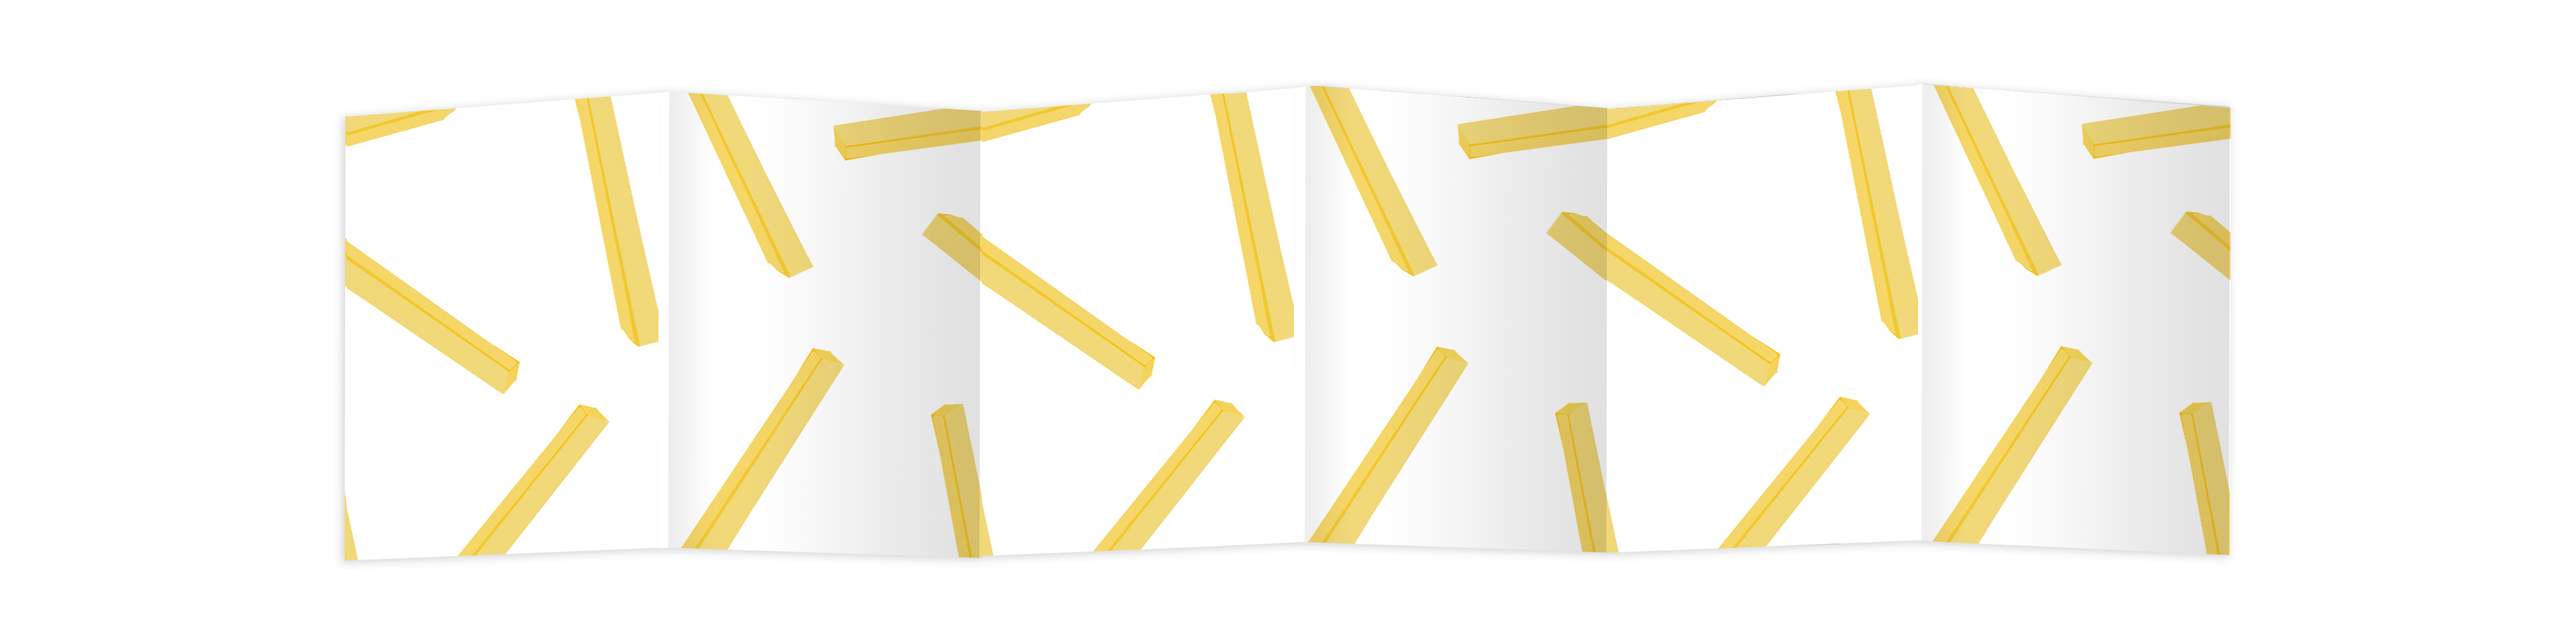
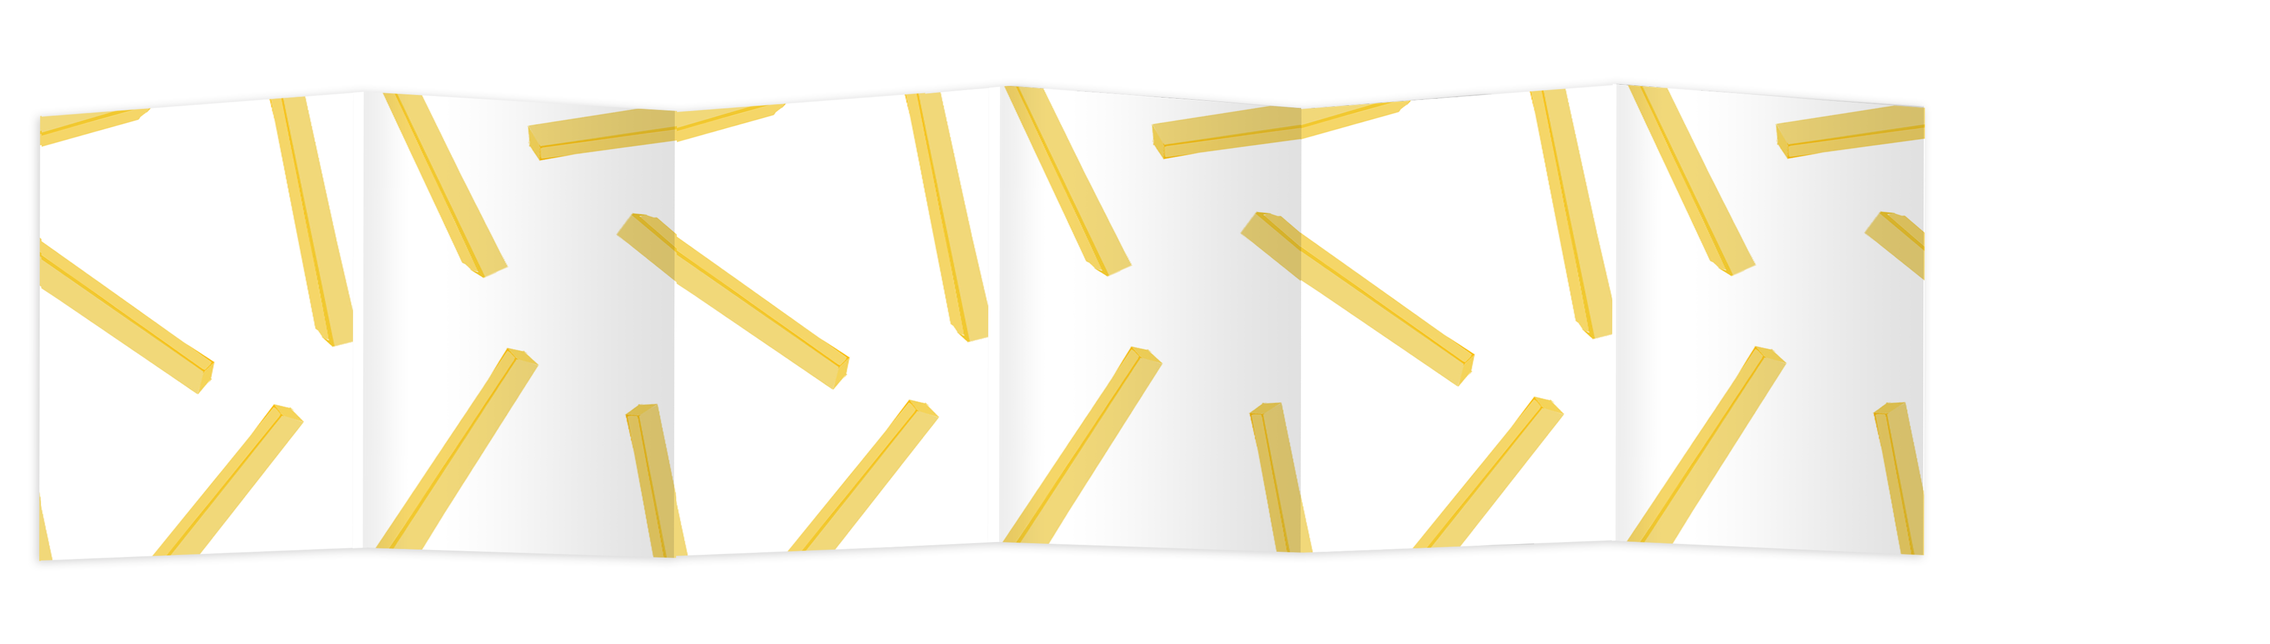
case studies responsive

diff --git a/Work/FrenchFryFunFacts.html b/Work/FrenchFryFunFacts.html
@@ -58,22 +58,28 @@
           </div>
         </div>
 
-        <img src="Assets/FrenchFries/spreads.png" />
-        <img src="Assets/FrenchFries/backPages.png" />
+        <img style="width: 100%;" src="Assets/FrenchFries/spreads.png" />
+        <img style="width: 100%;" src="Assets/FrenchFries/backPages.png" />
       </div>
 
       <div id="Section3">
         <h3>Physical Copy</h3>
-        <img src="Assets/FrenchFries/physicalCopy.png" />
+        <img style="width: 50%;" src="Assets/FrenchFries/physicalCopy.png" />
       </div>
 
       <div id="Section4">
         <h3>Digital Pages</h3>
-        <iframe
+        <img src="Assets/FrenchFries/digPage1.png" />
+        <img src="Assets/FrenchFries/digPage2.png" />
+        <img src="Assets/FrenchFries/digPage3.png" />
+        <img src="Assets/FrenchFries/digPage4.png" />
+        <img src="Assets/FrenchFries/digPage5.png" />
+        <img src="Assets/FrenchFries/digPage6.png" />
+        <!-- <iframe
           src="Assets/FrenchFries/French Fry Booklet.pdf"
           width="100%"
-          height="500px;"
-        ></iframe>
+          height="800px;"
+        ></iframe> -->
       </div>
     </div>
 
@@ -107,8 +113,8 @@
           ><img id="social-media-icon" src="Assets/twitter-icon.png" />
         </a>
       </div>
-      <p>isabelanguera2@gmail.com</p>
-      <p>(434) 907-2508</p>
+      <p id="contactInfo">isabelanguera2@gmail.com</p>
+      <p id="contactInfo">(434) 907-2508</p>
     </div>
   </body>
 </html>

diff --git a/Work/Intimo.html b/Work/Intimo.html
@@ -32,7 +32,7 @@
           bites to help people connect. Private listening on headphones is a way
           to experience intimacy during mandated social distancing. Our
           interface gives users a way to share snippets of audio while socially
-          <--- 6 ft ---> distant.
+          distant.
         </p>
       </div>
 
@@ -149,18 +149,13 @@
       </div>
 
       <div id="Section5">
-        <h3>How it Works</h3>
-        <img src="Assets/Intimo/techChart.png" />
-      </div>
-
-      <div id="Section6">
         <h3>Visit the Site</h3>
         <p id="intimoURL">
           <a href="intimo.dardaradaria.com">intimo.dardaradaria.com</a>
         </p>
       </div>
 
-      <div id="section7">
+      <div id="Section6">
         <h3>Links and Resources</h3>
         <ul>
           <li>
@@ -220,8 +215,8 @@
           ><img id="social-media-icon" src="Assets/twitter-icon.png" />
         </a>
       </div>
-      <p>isabelanguera2@gmail.com</p>
-      <p>(434) 907-2508</p>
+      <p id="contactInfo">isabelanguera2@gmail.com</p>
+      <p id="contactInfo">(434) 907-2508</p>
     </div>
   </body>
 </html>

diff --git a/Work/tweetGuard.html b/Work/tweetGuard.html
@@ -157,8 +157,8 @@
           ><img id="social-media-icon" src="Assets/twitter-icon.png" />
         </a>
       </div>
-      <p>isabelanguera2@gmail.com</p>
-      <p>(434) 907-2508</p>
+      <p id="contactInfo">isabelanguera2@gmail.com</p>
+      <p id="contactInfo">(434) 907-2508</p>
     </div>
   </body>
 </html>

diff --git a/Work/work.css b/Work/work.css
@@ -301,4 +301,14 @@ video {
   #TOC {
     display: none;
   }
+
+  #intimoURL {
+    font-size: 2.5em;
+    margin: 5% auto 9% auto;
+  }
+
+  #intimoURL a:hover {
+    background-color: #ffff60;
+    padding: 2%;
+  }
 }
